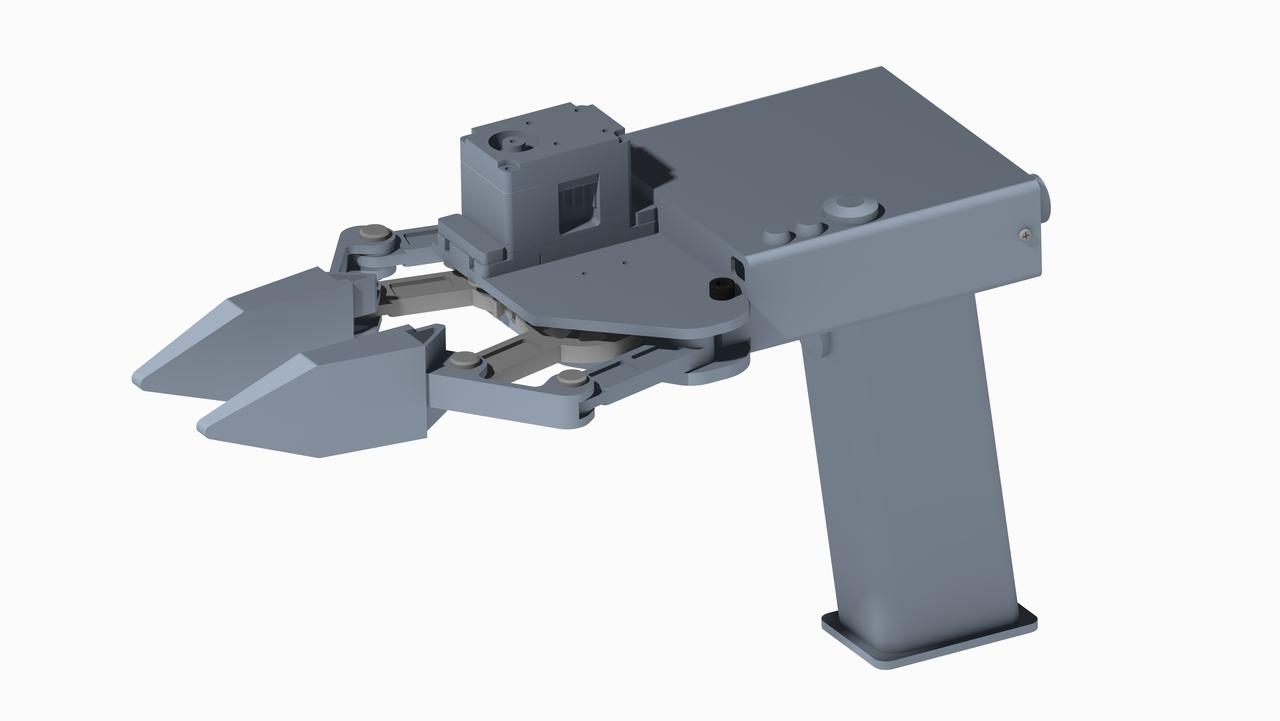
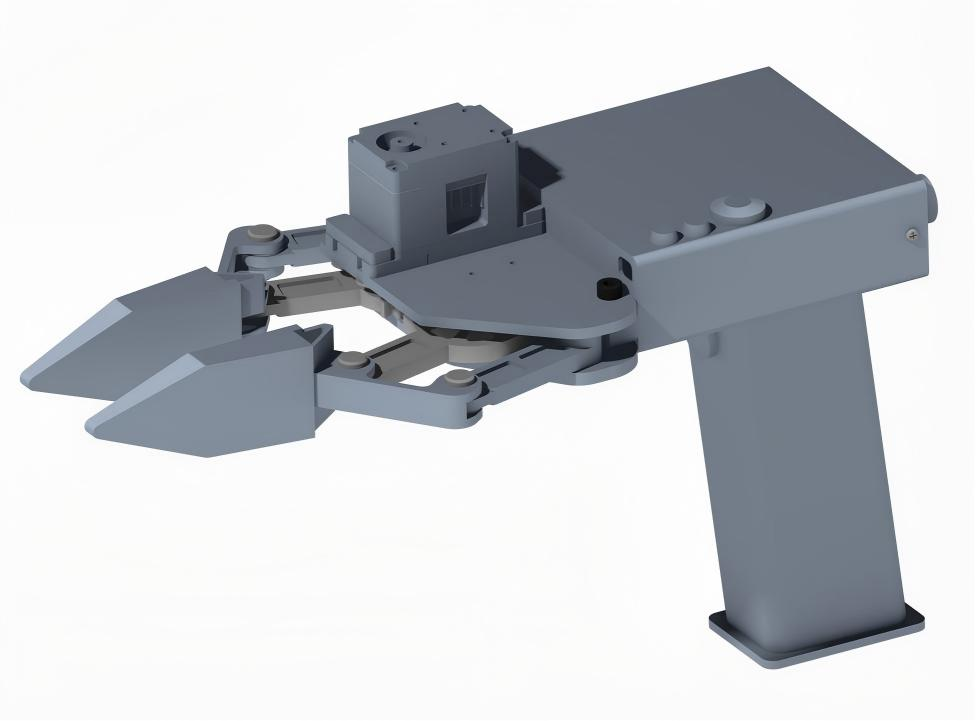
project update

Changed region(s): [[0.0, 0.0915, 0.9836, 0.9459]]

diff --git a/_projects/bytemini.md b/_projects/bytemini.md
@@ -6,23 +6,22 @@ img: assets/img/bytemini.jpg
 importance: 3
 category: work
 ---
-
 ## ByteMini v1.0
 
 快速搭建的初始版本，单臂7自由度+1个夹爪。
 
-<div class="col-sm mt-3 mt-md-0">
-    {% include figure.liquid loading="eager" path="assets/img/bm1.jpg" class="img-fluid rounded z-depth-1 mx-auto d-block" %}
+<div class="row">
+    <div class="col-sm mt-3 mt-md-0">
+        {% include figure.liquid loading="eager" path="assets/img/bm1.jpg" class="img-fluid rounded z-depth-1" caption="ByteMini v1.0: CAD Design" %}
+    </div>
 </div>
 
 <div class="row">
-    <div class="col-12 mt-3">
-        <div class="embed-responsive embed-responsive-16by9">
-            <video class="embed-responsive-item" controls preload="metadata" poster="/assets/img/bm1.jpg">
-                <source src="/assets/video/bm1.mp4" type="video/mp4">
-                Your browser does not support the video tag.
-            </video>
-        </div>
+    <div class="col-sm mt-3 mt-md-0">
+        <video class="img-fluid rounded z-depth-1" controls preload="metadata" style="width: 100%; height: auto;">
+            <source src="/assets/video/bm1.mp4#t=0.1" type="video/mp4">
+            Your browser does not support the video tag.
+        </video>
     </div>
 </div>
 
@@ -34,13 +33,13 @@ category: work
 
 <div class="row">
     <div class="col-sm mt-3 mt-md-0">
-        {% include figure.liquid loading="eager" path="assets/img/bm15creo1.jpg" title="example image" class="img-fluid rounded z-depth-1" %}
+        {% include figure.liquid loading="eager" path="assets/img/bm15creo1.jpg" class="img-fluid rounded z-depth-1" caption="ByteMini v1.5: CAD Design" %}
     </div>
     <div class="col-sm mt-3 mt-md-0">
-        {% include figure.liquid loading="eager" path="assets/img/bm15creo2.jpg" title="example image" class="img-fluid rounded z-depth-1" %}
+        {% include figure.liquid loading="eager" path="assets/img/bm15creo2.jpg" class="img-fluid rounded z-depth-1" caption="ByteMini v1.5: CAD Design" %}
     </div>
     <div class="col-sm mt-3 mt-md-0">
-        {% include figure.liquid loading="eager" path="assets/img/bm15.png" title="example image" class="img-fluid rounded z-depth-1" %}
+        {% include figure.liquid loading="eager" path="assets/img/bm15.png" class="img-fluid rounded z-depth-1" caption="ByteMini v1.5: Prototype" %}
     </div>
 </div>
 
@@ -52,19 +51,19 @@ category: work
 
 <div class="row">
     <div class="col-sm mt-3 mt-md-0">
-        {% include figure.liquid loading="eager" path="assets/img/bytemini.jpg" title="example image" class="img-fluid rounded z-depth-1" %}
+        {% include figure.liquid loading="eager" path="assets/img/bytemini.jpg" class="img-fluid rounded z-depth-1" caption="ByteMini v2.0: CAD Design" %}
     </div>
     <div class="col-sm mt-3 mt-md-0">
-        {% include figure.liquid loading="eager" path="assets/img/bm20.png" title="example image" class="img-fluid rounded z-depth-1" %}
+        {% include figure.liquid loading="eager" path="assets/img/bm20.png" class="img-fluid rounded z-depth-1" caption="ByteMini v2.0: Prototype" %}
     </div>
 </div>
 
 <div class="col-sm mt-3 mt-md-0">
-    {% include figure.liquid loading="eager" path="assets/img/bm201.jpg" class="img-fluid rounded z-depth-1 mx-auto d-block" width="800" %}
+    {% include figure.liquid loading="eager" path="assets/img/bm201.jpg" class="img-fluid rounded z-depth-1 mx-auto d-block" width="800" caption="ByteMini v2.0: Multi-View" %}
 </div>
 
 <div class="row">
-    <div class="col-12 mt-3">
+    <div class="col-12">
         <div class="embed-responsive embed-responsive-16by9">
             <video class="embed-responsive-item" controls preload="metadata" poster="/assets/img/bm20.png">
                 <source src="/assets/video/bm20.mp4" type="video/mp4">
@@ -82,15 +81,15 @@ category: work
 
 <div class="row">
     <div class="col-sm mt-3 mt-md-0">
-        {% include figure.liquid loading="eager" path="assets/img/bm25creo.jpg" title="example image" class="img-fluid rounded z-depth-1" %}
+        {% include figure.liquid loading="eager" path="assets/img/bm25creo.jpg" class="img-fluid rounded z-depth-1" caption="ByteMini v2.5: CAD Design" %}
     </div>
     <div class="col-sm mt-3 mt-md-0">
-        {% include figure.liquid loading="eager" path="assets/img/bm25.jpg" title="example image" class="img-fluid rounded z-depth-1" %}
+        {% include figure.liquid loading="eager" path="assets/img/bm25.jpg" class="img-fluid rounded z-depth-1" caption="ByteMini v2.5: Prototype with ID" %}
     </div>
 </div>
 
 <div class="row">
-    <div class="col-12 mt-3">
+    <div class="col-12">
         <div class="embed-responsive embed-responsive-16by9">
             <video class="embed-responsive-item" controls preload="metadata" poster="/assets/img/bm25.jpg">
                 <source src="/assets/video/bm25.mp4" type="video/mp4">

diff --git a/_projects/gr-3.md b/_projects/gr-3.md
@@ -5,9 +5,7 @@ description: GR-3 VLA Model with ByteMini
 img: assets/img/gr3cover.jpeg
 importance: 1
 category: work
-
 ---
-
 A Generalizable and Robust Vision-Language-Action (VLA) Model for Long-Horizon and Dexterous Tasks.
 
 <div class="row">
@@ -23,10 +21,8 @@ A Generalizable and Robust Vision-Language-Action (VLA) Model for Long-Horizon a
 </div>
 
 2025年7月22日，发布了GR-3项目。在视频中展示的机器人本体ByteMini是我们团队为GR-3开发的轻量化人形双臂项目。可以完成多种场景的单臂操作及双臂协作任务。
-详细内容可以参考：https://seed.bytedance.com/en/GR3
-
-gr3team allstars
+详细内容可以参考：[seed.bytedance.com/en/GR3](https://seed.bytedance.com/en/GR3)
 
 <div class="col-sm mt-3 mt-md-0">
-        {% include figure.liquid loading="eager" path="assets/img/gr3team.jpg" class="img-fluid rounded z-depth-1 mx-auto d-block" width="600" %}
+        {% include figure.liquid loading="eager" path="assets/img/gr3team.jpg" class="img-fluid rounded z-depth-1 mx-auto d-block" width="600" caption="The GR-3 Team All-Stars" %}
 </div>

diff --git a/_projects/continuumrobot.md b/_projects/continuumrobot.md
@@ -10,9 +10,9 @@ category: research
 
 <div class="row">
     <div class="col-sm mt-3 mt-md-0">
-        {% include figure.liquid loading="eager" path="assets/img/cr1.jpg" title="example image" class="img-fluid rounded z-depth-1" %}
+        {% include figure.liquid loading="eager" path="assets/img/cr1.jpg" class="img-fluid rounded z-depth-1" caption="Continuum robot: overall structure" %}
     </div>
     <div class="col-sm mt-3 mt-md-0">
-        {% include figure.liquid loading="eager" path="assets/img/cr2.jpg" title="example image" class="img-fluid rounded z-depth-1" %}
+        {% include figure.liquid loading="eager" path="assets/img/cr2.jpg" class="img-fluid rounded z-depth-1" caption="Continuum robot: close-up detail" %}
     </div>
 </div>

diff --git a/_projects/gr-rl.md b/_projects/gr-rl.md
@@ -10,8 +10,8 @@ category: work
 详细内容可以参考：[seed.bytedance.com/zh/gr_rl](https://seed.bytedance.com/zh/gr_rl)
 
 <div class="row">
-    <div class="col-sm mt-3 mt-md-0 text-center">
-        <img src="{{ 'assets/img/gr-rl.png' | relative_url }}" class="rounded z-depth-1" style="height: 400px; width: auto; max-width: 100%; object-fit: contain;" alt="GR-RL">
+    <div class="col-sm mt-3 mt-md-0">
+        {% include figure.liquid loading="eager" path="assets/img/gr-rl.png" class="img-fluid rounded z-depth-1" caption="GR-RL: precise shoelace-threading manipulation" %}
     </div>
 </div>
 

diff --git a/_projects/bytewrist.md b/_projects/bytewrist.md
@@ -23,4 +23,4 @@ a novel highly-flexible and anthropomorphic parallel wrist for robotic manipulat
 </div>
 
 2025年9月23日，我们发布了ByteWrist机器人手腕结构，该手腕巧妙的用3个串联电机组成了并联机构，实现了机器人手腕的大角度偏转。
-详细内容参考：https://bytewrist.github.io/
+详细内容参考：[bytewrist.github.io](https://bytewrist.github.io/)
